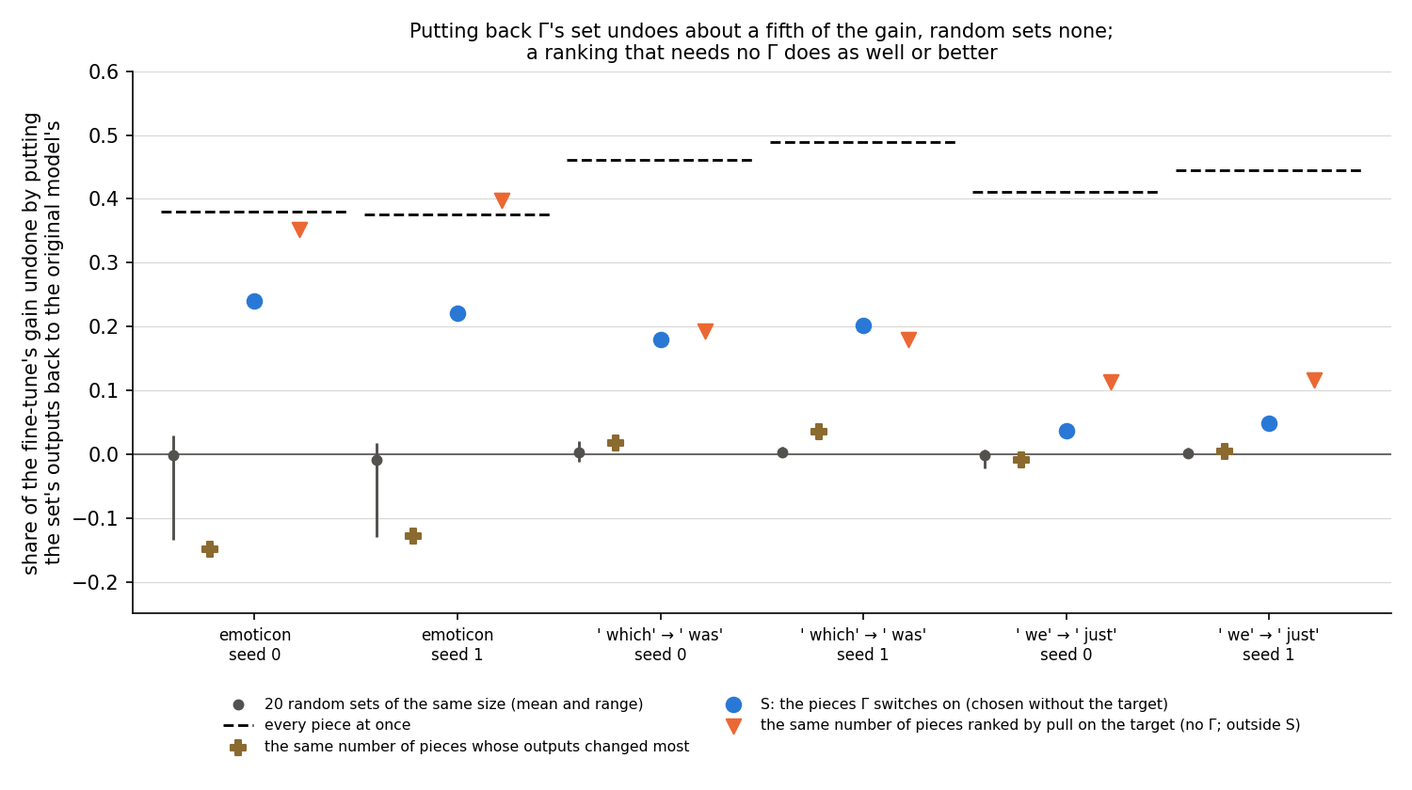
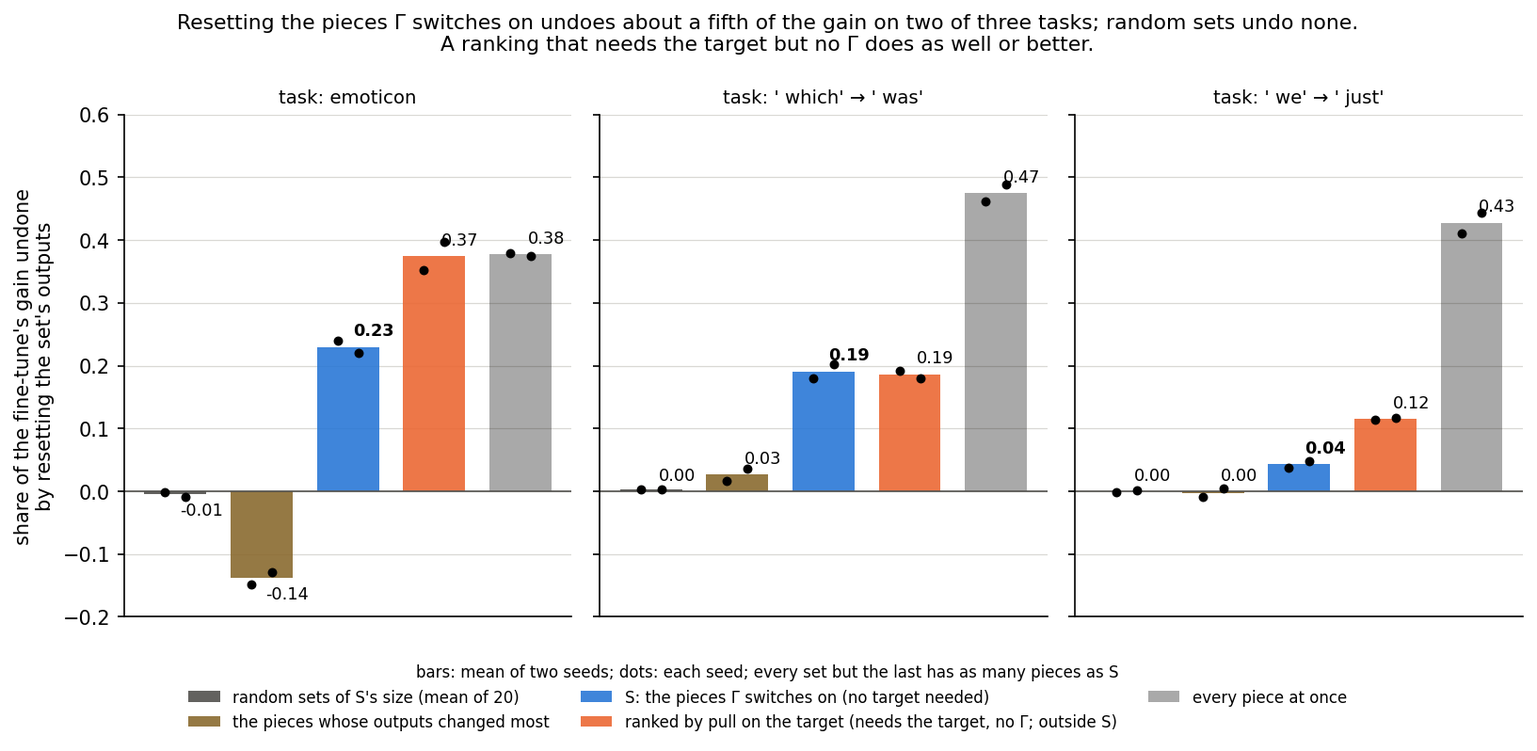
Research log v109: redesign three card figures, standardise the card format
E38's restore figure becomes bars per task, E16's overlaid-step bars a pass/fail
scorecard, E34's six faithfulness panels one panel, all from saved results (new
plot_log.py in teacher_training; grid() in split_comparison/plot.py). Titles checked
against a cold reader: no overclaims. README "What to update" item 1 now specifies the
card layout used on E16, E21, E34, E38 and E39. E38 links the E50 card.

diff --git a/docs/research_log/parts/experiments/e16.html b/docs/research_log/parts/experiments/e16.html
@@ -2,11 +2,11 @@
 <div class="top"><span class="id">E16</span><span class="chip partial">unscored</span><h3>The five operations side by side</h3><span class="when">2026-10-21 · RunPod H100 · <code>experiments/split_comparison</code></span></div>
 <p class="one"><strong>The question.</strong> To read a fine-tune in the decomposition, its weight change has to be carried onto the pieces. A good way of doing that keeps three things at once. It keeps the fine-tune's behaviour. It keeps VPD's faithfulness: the adversarial ratio, the damage an adversary searching over masks of the pieces can do, over what it does to the unchanged decomposition, stays near 1. And it leaves little of the update in the residual Δ, since an update parked in Δ is not explained by the pieces.</p>
 <p class="one"><strong>What we did.</strong> We put the five candidate operations side by side on one task (emoticon), for a full fine-tune and a rank-8 LoRA, both Adam, at steps 10, 100 and 1,000. <em>Do-nothing</em> leaves the whole change in Δ. The <em>least-squares</em>, <em>adjoint</em> and <em>rescaling</em> splits divide the finished change among the pieces in three different ways. <em>Component training</em> skips the fine-tune and trains the pieces on the task directly.</p>
-<p class="one"><strong>What we found.</strong> Only component training was good on all three counts, at every step (first figure). Each split failed one. Least squares left 36 to 54% of the update in Δ and failed the check on the fine-tune. The adjoint split lost the behaviour as training went on, from 0.93 to 0.10. Rescaling never had it.</p>
+<p class="one"><strong>What we found.</strong> Only component training was good on all three counts, at every step (first figure). Each split failed at least one. Least squares left 36 to 54% of the update in Δ and failed the check on the fine-tune. The adjoint split lost the behaviour as training went on, from 0.93 to 0.10. Rescaling never had it.</p>
 <p class="one"><strong>What it means.</strong> No operation yet mapped a finished update: component training replaces the update rather than mapping it. Teacher training (E34) later filled that gap by training the pieces to copy the finished fine-tune. The splits' failures here belong to this large Adam update. On small fine-tunes the splits pass the check (E21, E22), and the adjoint split of a small SGD fine-tune keeps about 0.6 of the behaviour (E31).</p>
 <figure>
-<img src="fig/e16_bars.png" alt="Three panels sharing the five operations on the horizontal axis (do-nothing, least-squares split, adjoint split, rescaling split, component training), each with bars for the fine-tune (blue) and the LoRA (orange) at steps 10, 100 and 1000; component training's bars are its analogues, free beside the fine-tune and rank-8 beside the LoRA. (a) The adversarial ratio to the original model, with the original model's noise band: the fine-tune's least-squares states and its do-nothing at steps 10 and 1000 leave the band, the LoRA's least-squares states at steps 10 and 100 only just; every other bar stays inside. (b) Held-out probability of the target: do-nothing, the least-squares split and component training keep it, the adjoint state loses it along training, the rescaling state never has it. (c) The share of the update left in Δ: all of it for do-nothing, 36 to 54% for the least-squares split, about zero for the rest.">
-<figcaption><strong>1. Which operation keeps all three?</strong> Only component training (right). Blue is the fine-tune, orange the LoRA; beside them, component training is unconstrained (blue) or held to rank 8 (orange). The three steps are drawn over one another in one bar, lighter for earlier, so each step's value is the top of its shade. (a) Faithfulness: inside the grey band is as faithful as the unchanged decomposition. The least-squares split's step-10 bar runs off the top at 6.96. (b) Behaviour kept: the target's probability on held-out text, 1 for the fine-tuned model. (c) How much of the update is left in Δ.</figcaption>
+<img src="fig/e16_grid.png" alt="Two scorecards, full fine-tune and rank-8 LoRA. Rows: do-nothing, least-squares split, adjoint split, rescaling split, component training. Columns: faithfulness, behaviour kept and share left in Δ, each at steps 10, 100 and 1000. Component training is green throughout except an amber 0.90 at step 10 for rank 8. Do-nothing leaves 100% in Δ; least squares leaves 36 to 54% and fails faithfulness on the fine-tune (6.96, 1.48, 2.11); the adjoint split loses behaviour (0.93, 0.60, 0.10 and 0.50, 0.18, 0.06); rescaling keeps 0.01 to 0.02.">
+<figcaption><strong>1. Which operation keeps all three?</strong> Only component training. One table per update; each row an operation, each cell one count at one step, green good, amber in between, red bad (thresholds in the legend). Read across a row: do-nothing keeps the behaviour but leaves the whole update in Δ; least squares leaves a third to a half in Δ and fails faithfulness on the fine-tune; the adjoint split stays faithful but loses the behaviour as training goes on; rescaling never has it. Faithful means inside the unchanged decomposition's run-to-run spread of the adversarial ratio (up to 1.22).</figcaption>
 </figure>
 <figure>
 <img src="fig/e16_routes.png" alt="Two panels of horizontal stacked bars at step 1000, fine-tune and LoRA, one bar per operation (do-nothing, least-squares split, adjoint split, component training). The dark direct share is at most 0.02; the light re-switching share runs from 0.28 to 0.55; the rest is grey.">
@@ -16,7 +16,7 @@
 <dt>Run</dt><dd>Emoticon, one seed. A fine-tune and a rank-8 LoRA were each carried onto the pieces by every operation at steps 10, 100 and 1,000, with component training trained in their place. Every state was scored on the adversarial check, held-out behaviour, and Δ's share of the update.</dd>
 <dt>Found</dt><dd><ul>
 <li>Component training keeps the behaviour, passes the check and leaves almost nothing in Δ at every step, beside both updates.</li>
-<li>On this large fine-tune each split fails one count: least squares fails the check (7.0 at step 10) and leaves 36 to 54% in Δ, the adjoint split loses the behaviour, and rescaling keeps none of it.</li>
+<li>On this large fine-tune each split fails at least one count: least squares fails the check (7.0 at step 10) and leaves 36 to 54% in Δ, the adjoint split loses the behaviour, and rescaling keeps none of it.</li>
 <li>Under every operation the moved pieces carry a few percent of the gain at most; most of what is explained comes from Γ switching pieces on differently. The run did not reproduce an earlier number (E14's step-10 check, 7.0 against 5.2), so the predictions written beforehand are unscored and these are readings.</li></ul></dd>
 <dt>Bears on</dt><dd>Q1, Q2, Q3, Q5</dd>
 <dt>Moved on</dt><dd>The verdict "no split keeps the behaviour, the check and Δ" was then narrowed to large updates: small fine-tunes pass the check under every split (E21, E22), though least squares still leaves 0.25 to 0.39 in Δ and the adjoint split still loses Adam's behaviour. Teacher training (<a href="#e34">E34</a>) later became the map, because it copies a finished fine-tune instead of replacing it. Report: <code>reports/analyses/2026-10-21_analysis_split-comparison.md</code>; notebook <code>notebooks/E16_split_comparison.ipynb</code>. Not run: a second seed, the split states' damage elsewhere.</dd>

diff --git a/docs/research_log/parts/experiments/e38.html b/docs/research_log/parts/experiments/e38.html
@@ -10,8 +10,8 @@
 <figcaption><strong>1. What are the pieces Γ switches on?</strong> Mostly the original model's machinery for the target. Each bar is the share of a set's pieces that, in ordinary Pile text read by the original model, are followed by the target at least three times as often as chance. Blue: S. Grey: random sets of S's size. Gold, for comparison: the pieces most active just before the target, picked knowing the target. Γ gets close to that without knowing it.</figcaption>
 </figure>
 <figure>
-<img src="fig/e38_log_restore.png" alt="For six fine-tuned states, the share of the gain undone by resetting a set's trigger outputs: S 0.24 and 0.22 on emoticon, 0.18 and 0.20 on ' which', 0.04 and 0.05 on ' we'; random sets near 0; the largest-change set -0.15 to 0.04; the target-ranked set 0.35 and 0.40, 0.19 and 0.18, 0.11 and 0.12; every piece at once 0.38 to 0.49.">
-<figcaption><strong>2. Does the fine-tuned model use them?</strong> Partly. Up: how much of the fine-tune's gain on the target is undone when a set's outputs at the trigger are reset to the original model's, on held-out text (0 none, 1 all). The gain is the rise in the target's log-odds, 10 to 14 nats. Blue: S. Grey: random sets of S's size. Brown: the same number of pieces whose outputs changed most. Orange: the same number ranked by pull on the target, outside S, which uses no Γ. Dashed: every piece at once. Even every piece together undoes under half, so most of the gain sits elsewhere.</figcaption>
+<img src="fig/e38_log_restore.png" alt="Three panels, one per task. Bars, mean of two seeds, for the share of the gain undone by resetting a set's trigger outputs: random sets -0.01, 0.00, 0.00; the pieces whose outputs changed most -0.14, 0.03, 0.00; S 0.23, 0.19, 0.04; the target-ranked set 0.37, 0.19, 0.12; every piece at once 0.38, 0.47, 0.43.">
+<figcaption><strong>2. Does the fine-tuned model use them?</strong> Partly. Each bar is how much of the fine-tune's gain on the target is undone when one set's outputs at the trigger are reset to the original model's, on held-out text (0 none, 1 all; the gain is the rise in the target's log-odds, 10 to 14 nats). Bars are the mean of two seeds, dots each seed. Blue, S, undoes about a fifth on two tasks. Random sets and the pieces whose outputs changed most undo none. Orange, the same number of pieces ranked by pull on the target, needs the target but no Γ and does as well or better. Light grey, every piece at once, undoes under half, so most of the gain sits outside the pieces' outputs at the trigger.</figcaption>
 </figure>
 <dl class="fields">
 <dt>Run</dt><dd>The tasks are emoticon, ` which` then ` was`, and ` we` then ` just` (E18's), with a fine-tune to ` http` at the same triggers as the null. S is the alive subcomponents whose importance at the trigger rises by more than 0.3 (21 to 213 of them). A piece's pull on the target is the first-order effect of its change on the target's log-odds. One RunPod job (about $0.23) and four cluster jobs ($0); every restore step was checked by an independent agent.</dd>
@@ -20,6 +20,6 @@
 <li>Resetting S undoes about a fifth of the gain on emoticon and ` which` and under 0.05 on ` we`; random sets and the largest-change pieces undo none, so the size of a change does not explain S's share.</li>
 <li>A ranking by pull on the target matches or beats S at the same count, and adding S to it adds about S's own share. Removing S from the weights was uninformative, since that hurts the original model too.</li></ul></dd>
 <dt>Bears on</dt><dd>Q5</dd>
-<dt>Moved on</dt><dd>The user closed the 67M restore line on 2026-10-28. On 2026-10-29 they read it as a partial success: re-gating shows what an update draws on, and the Γ-free ranking is the caveat that sets the next tests. The reset's stage 0 ran as <a href="#e46">E46</a>, and E50 (chosen 2026-10-29, $0) reads the same restore share on fine-tunes whose kind is known by construction. Reports: <code>reports/analyses/2026-10-28_analysis_e38-amend7.md</code> and <code>reports/analyses/2026-10-28_analysis_e38-amend6.md</code> with their checks <code>reports/reviews/2026-10-28_review_e38-amend7-check.md</code> and <code>reports/reviews/2026-10-28_review_e38-amend6-check.md</code>; earlier <code>reports/analyses/2026-10-28_analysis_e38-amend5.md</code>, <code>reports/analyses/2026-10-28_analysis_e38-amend4.md</code>, <code>reports/analyses/2026-10-27_analysis_e38-amend3.md</code>, <code>reports/analyses/2026-10-27_analysis_e38-amend2.md</code>, <code>reports/analyses/2026-10-27_analysis_recruitment-test.md</code>; notebook <code>notebooks/E38_recruitment_test.ipynb</code>; the removal figure is in the first analysis.</dd>
+<dt>Moved on</dt><dd>The user closed the 67M restore line on 2026-10-28. On 2026-10-29 they read it as a partial success: re-gating shows what an update draws on, and the Γ-free ranking is the caveat that sets the next tests. The reset's stage 0 ran as <a href="#e46">E46</a>, and <a href="#e50">E50</a> (chosen 2026-10-29, $0) reads the same restore share on fine-tunes whose kind is known by construction. Reports: <code>reports/analyses/2026-10-28_analysis_e38-amend7.md</code> and <code>reports/analyses/2026-10-28_analysis_e38-amend6.md</code> with their checks <code>reports/reviews/2026-10-28_review_e38-amend7-check.md</code> and <code>reports/reviews/2026-10-28_review_e38-amend6-check.md</code>; earlier <code>reports/analyses/2026-10-28_analysis_e38-amend5.md</code>, <code>reports/analyses/2026-10-28_analysis_e38-amend4.md</code>, <code>reports/analyses/2026-10-27_analysis_e38-amend3.md</code>, <code>reports/analyses/2026-10-27_analysis_e38-amend2.md</code>, <code>reports/analyses/2026-10-27_analysis_recruitment-test.md</code>; notebook <code>notebooks/E38_recruitment_test.ipynb</code>; the removal figure is in the first analysis.</dd>
 </dl>
 </article>

diff --git a/docs/research_log/parts/sections/changelog.html b/docs/research_log/parts/sections/changelog.html
@@ -3,6 +3,7 @@
 <div class="tblwrap"><table>
 <thead><tr><th>Version</th><th>When</th><th>Changes</th></tr></thead>
 <tbody>
+<tr><td class="c">109</td><td class="c">2026-10-29</td><td>User request: five experiment cards rewritten for a cold reader after a red-team read (fresh Sonnet readers given one card, a line of project context and the title's terms, Moved on withheld): E16, E21, E34, E38, E39. Each now opens with four short paragraphs (the question, what we did, what we found, what it means and what followed), defines the adversarial ratio and its lines in place, and keeps Run to two sentences, Found to three bullets and Moved on to three sentences plus reports. Figures redrawn from saved results, no new runs: E38 gets a plain census figure and a restore figure as bars per task (<code>fig/e38_log_census.png</code>, <code>fig/e38_log_restore.png</code>, from <code>experiments/recruitment_test/plot_log.py</code>); E16's overlaid-step bars become a pass/fail scorecard (<code>fig/e16_grid.png</code>); E34's six faithfulness panels become one (<code>fig/e34_log_faithful.png</code>); E39's first figure loses a title the new-rows result had overturned; E21's and E16's raw task ids and metric names become words. Figures cut from cards stay in their reports (E34: LoRA, cosine and plain-SGD figures; E21: the step-10 ladder; E39: stable rank; E38: removal). The overview's census figure is the plain version. README: the card format is now this layout (What to update, item 1). No PENDING lines applied.</td></tr>
 <tr><td class="c">108</td><td class="c">2026-10-29</td><td>Flush of one revised queued line, found on pulling just after v107: reports/analyses/2026-10-29_analysis_e46-amendment3.md was revised after an independent check. The v107 E46 wording is replaced: the stand-in ratio is nearly the gate gain over the split subcomponents' own gain (the split's changes add a few hundredths at most), so it adds little and is not "the share Γ keeps"; hand writes read 0.40 and 0.57 against 0.36 to 0.41 for the random-map fine-tunes, within reach of the filed bars. The pending card <code>decision-e46-a3-stand-in-ratio</code> now has two options (carry it labelled as gate gain over subcomponent gain, or drop it from stage 1), the writer recommends dropping it, and it need not wait for E50. E46 card, the card, Q5, the claims row, the Line 1 box, the next section and the timeline follow.</td></tr>
 <tr><td class="c">107</td><td class="c">2026-10-29</td><td>Flush of five queued lines (the "Pass criterion on Δ" line was already applied in v106). (1) reports/analyses/2026-10-29_analysis_e48-pass-reread.md (Amendment 1) · E48 card gets the carriers result: about 1,900 / 1,100 / 990 of 9,881 alive subcomponents carry half of the gain on the two random ciphers and the identity control, "tens" missed, the E42 card and the 2026-10-29 timeline line follow; the E48 "not run" list loses the carriers. (2) reports/plans/2026-10-29_plan_regating-elicitation-DRAFT.md · its pending-decision card was never added, since you decided it (3). (3) decisions.md, plans/2026-10-29_plan_restore-anchors.md · option A chosen: Line 1 "Now" and the next section's re-gating card say E50 runs next. (4) decisions.md (Limit of the elicitation reading) · stated in the Line 1 caveats, the Q5 status, the next section and the re-gating claim row: a new mechanism built from pieces the original model already has reads as elicited. (5) E50 filed and coded, not run: new card E50. (6) E46 Amendment 3 (Slurm 42993): E46 card rewritten with the result (hand writes read like their own table's fine-tunes, 0.40 / 0.57 against 0.36 to 0.41; 0.89 / 1.13 against 0.87 to 0.97; random changes unread), new pending card decision-e46-a3-stand-in-ratio, Q5, the claims row and the timeline follow. Main page length not remeasured beyond about +300 words (v106: 17,040; limit 20,000). No figures added (amend3.png, e48_a1_carriers.png stay in their experiment folders).</td></tr>
 <tr><td class="c">106</td><td class="c">2026-10-29</td><td>Flush of one queued line. (1) 2026-10-29 · decisions.md (Pass criterion on Δ) · "Δ untouched" is a description, not the criterion: the criterion is that Δ may not absorb δW, with small changes to Δ allowed, so teacher training plus remainder (E43) is a live candidate with its faithfulness cost stated, not ruled out. Overview Result 2 headline (no longer "with Δ untouched"), Q1 status (closing sentence), the techniques table's "Δ untouched" column header (hover note) and the comparison card, the E43 card's headline and Moved on, and the next section's E43 line follow. Factual "with Δ untouched" statements in the E41, E42 cards and the claims stay. Main page about 17,040 words (limit 20,000).</td></tr>

diff --git a/docs/research_log/parts/experiments/e34.html b/docs/research_log/parts/experiments/e34.html
@@ -9,8 +9,8 @@
 <figcaption><strong>1. Does the copy keep the behaviour?</strong> Yes, on every task and teacher. Up: the target's probability at the trigger on held-out text (the unchanged model: 0.004 on emoticon). Black: the fine-tune being copied. Grey: its adjoint split, the best earlier map. Blue and orange: copies trained on the task's text and on Pile text. Circles are SGD teachers, diamonds Adam. r1 is ` which` then ` was`, r0 is ` it` then ` is`.</figcaption>
 </figure>
 <figure>
-<img src="fig/e34_faithful.png" alt="Six panels, one per teacher, adversarial ratio to W0 at teacher-training steps 100 and 1000, with the teacher's own ratio as a black line, pass line 1.40 and fail line 1.61. Copies trained on task text and on Pile text sit at 0.90 to 1.37.">
-<figcaption><strong>2. Is the copy faithful?</strong> Yes. One panel per fine-tune. Up: the adversarial ratio (dotted 1 is the unchanged decomposition; green dashed, pass; red dashed, fail; grey between, inconclusive). Every copy sits at 0.90 to 1.37 after 100 and 1,000 steps. That includes copies of three fine-tunes that read inconclusive themselves when left in Δ (black line, "do-nothing").</figcaption>
+<img src="fig/e34_log_faithful.png" alt="Adversarial ratio for six fine-tunes, three tasks by SGD and Adam: the fine-tune left in Δ reads 1.59, 1.52, 1.12, 1.35, 0.98, 1.50; copies on task text at step 1000 read 1.00, 0.97, 1.30, 1.08, 0.94, 0.96; copies on Pile text 1.03, 1.13, 1.13, 1.37, 0.90, 1.05; pass line 1.40, fail line 1.61.">
+<figcaption><strong>2. Is the copy faithful?</strong> Yes. For each of the six fine-tunes: grey, the fine-tune left in Δ; blue and orange, its two copies after 1,000 steps of teacher training (dots: the same copies at step 100). Bars start at 1, the unchanged decomposition; under the green line passes, over the red fails, the grey band between is inconclusive. Every copy passes, including copies of the three fine-tunes that read inconclusive themselves.</figcaption>
 </figure>
 <figure>
 <img src="fig/e34_amend1.png" alt="Left: held-out target probability of copies trained on Pile text, with and without the rows holding the trigger, for the SGD and Adam emoticon teachers; at step 1000 0.960, 0.937 and 0.902, 0.892, at step 100 0.74, 0.20 and 0.34, 0.08. Right: cosine of each copy's weight change with the fine-tune's: 0.08 (SGD) and 0.22 (Adam) for both Pile copies, 0.245 and 0.285 for the copy trained on task text, 0.450 and 0.382 for the adjoint split, 0.000 for a random direction.">

diff --git a/experiments/recruitment_test/plot_log.py b/experiments/recruitment_test/plot_log.py
@@ -16,7 +16,7 @@ import json
 from typing import Any
 
 import matplotlib.pyplot as plt
-from plot import BLUE, INK, MUTED, NAME, ORANGE, RES, TASKS, keys, save, style
+from plot import BLUE, FIG, INK, MUTED, NAME, ORANGE, RES, TASKS, keys, save, style
 
 BROWN = "#8a6a2f"
 
@@ -52,31 +52,37 @@ def fig_census(ce: dict[str, Any]) -> None:
 
 
 def fig_restore(st7: dict[str, Any], a3: dict[str, Any], a4: dict[str, Any], a5: dict[str, Any]) -> None:
-    fig, ax = plt.subplots(figsize=(10, 5.6))
-    sets = ((-0.22, BROWN, "P", "the same number of pieces whose outputs changed most"),
-            (0.0, BLUE, "o", "S: the pieces Γ switches on (chosen without the target)"),
-            (0.22, ORANGE, "v", "the same number of pieces ranked by pull on the target (no Γ; outside S)"))
-    for i, k in enumerate(keys()):
-        first = i == 0
-        rnd = a3["states"][k]["rho"]["random"]
-        ax.vlines(i - 0.4, min(rnd), max(rnd), color=MUTED, lw=1.4, zorder=2)
-        ax.scatter([i - 0.4], [sum(rnd) / len(rnd)], s=22, color=MUTED, zorder=3,
-                   label="20 random sets of the same size (mean and range)" if first else None)
-        y_all = a5["states"][k]["rho_all_alive_amend4"]
-        ax.plot([i - 0.46, i + 0.46], [y_all] * 2, color=INK, lw=1.4, ls="--", zorder=2,
-                label="every piece at once" if first else None)
-        ys = (a4["states"][k]["rho"]["C_n"], st7[k]["rho"]["S"], st7[k]["rho"]["D"])
-        for (dx, col, mk, lab), y in zip(sets, ys, strict=True):
-            ax.scatter([i + dx], [y], s=55, marker=mk, color=col, zorder=4, label=lab if first else None)
-    ax.set_xticks(range(len(keys())), task_seed_labels(), fontsize=8)
-    ax.set_xlim(-0.6, len(keys()) - 0.4)
-    ax.set_ylim(-0.25, 0.6)
-    ax.set_ylabel("share of the fine-tune's gain undone by putting\nthe set's outputs back to the original model's")
-    ax.set_title("Putting back Γ's set undoes about a fifth of the gain, random sets none;\n"
-                 "a ranking that needs no Γ does as well or better", fontsize=10)
-    style(ax)
-    ax.legend(frameon=False, fontsize=7.5, loc="upper center", ncol=2, bbox_to_anchor=(0.5, -0.13))
-    save(fig, "log_restore.png")
+    """Bars per task: the mean over the two seeds of each set's restored share, each seed as a dot."""
+    sets = (("random sets of S's size (mean of 20)", MUTED, lambda k: sum(r := a3["states"][k]["rho"]["random"]) / len(r)),
+            ("the pieces whose outputs changed most", BROWN, lambda k: a4["states"][k]["rho"]["C_n"]),
+            ("S: the pieces Γ switches on (no target needed)", BLUE, lambda k: st7[k]["rho"]["S"]),
+            ("ranked by pull on the target (needs the target, no Γ; outside S)", ORANGE, lambda k: st7[k]["rho"]["D"]),
+            ("every piece at once", INK, lambda k: a5["states"][k]["rho_all_alive_amend4"]))
+    fig, axes = plt.subplots(1, len(TASKS), figsize=(11, 4.6), sharey=True)
+    for ax, n in zip(axes, TASKS, strict=True):
+        ks = [k for k in keys() if k.split("/")[0] == n]
+        for j, (lab, col, f) in enumerate(sets):
+            ys = [f(k) for k in ks]
+            m = sum(ys) / len(ys)
+            ax.bar(j, m, 0.72, color=col, alpha=0.35 if col == INK else 0.9, label=lab if n == TASKS[0] else None)
+            ax.scatter([j - 0.12, j + 0.12], ys, s=14, color="k", zorder=3)
+            m = 0.0 if abs(m) < 0.005 else m
+            ax.text(j + 0.3, m + (0.012 if m >= 0 else -0.012), f"{m:.2f}", ha="center", fontsize=8.5,
+                    va="bottom" if m >= 0 else "top",
+                    fontweight="bold" if col == BLUE else "normal")
+        ax.set_xticks([])
+        ax.set_title(f"task: {NAME[n]}", fontsize=9.5)
+        ax.set_ylim(-0.2, 0.6)
+        style(ax)
+    axes[0].set_ylabel("share of the fine-tune's gain undone\nby resetting the set's outputs")
+    fig.suptitle("Resetting the pieces Γ switches on undoes about a fifth of the gain on two of three tasks; random sets undo none.\n"
+                 "A ranking that needs the target but no Γ does as well or better.", fontsize=10.5)
+    fig.tight_layout()
+    fig.legend(*axes[0].get_legend_handles_labels(), loc="upper center", bbox_to_anchor=(0.5, 0.0), ncol=3, fontsize=8, frameon=False,
+               title="bars: mean of two seeds; dots: each seed; every set but the last has as many pieces as S",
+               title_fontsize=8)
+    FIG.mkdir(exist_ok=True)
+    fig.savefig(FIG / "log_restore.png", dpi=150, bbox_inches="tight")
 
 
 def main() -> None:

diff --git a/experiments/split_comparison/plot.py b/experiments/split_comparison/plot.py
@@ -85,6 +85,50 @@ def grouped(ax: Axes, rows: list[Row], key: str, clip: float | None = None) -> N
     ax.grid(axis="y", color="#e6e6e6", zorder=0)
 
 
+GOOD, MID, BAD = "#cfe8d4", "#f6e3b4", "#f4c4c0"
+
+
+def grid(rows: list[Row]) -> None:
+    """The research log's scorecard: one table per update, operations down, the three counts by step across, each
+    cell coloured good / in between / bad by the thresholds in the legend."""
+    crit = (("pgd", "faithful\n(adversarial ratio)", lambda v, r: GOOD if v <= r["pgd_line"] else BAD, "{:.2f}"),
+            ("p_target", "behaviour kept\n(target probability)", lambda v, r: GOOD if v >= 0.9 else BAD if v < 0.5 else MID, "{:.2f}"),
+            ("delta_share", "update left in Δ\n(share)", lambda v, r: GOOD if v <= 0.1 else BAD if v >= 0.3 else MID, "{:.0%}"))
+    fig, axes = plt.subplots(1, 2, figsize=(13, 3.9))
+    for ax, pair in zip(axes, PAIRS, strict=True):
+        for i, op in enumerate(OPS):
+            for c, (key, _, colour, fmt) in enumerate(crit):
+                for s, step in enumerate(STEPS):
+                    r = next(x for x in rows if x["pair"] == pair and x["op"] == op and x["step"] == step)
+                    v = r[key]
+                    x = c * 3.4 + s
+                    ax.add_patch(plt.Rectangle((x, -i - 0.5), 0.95, 0.95, color=colour(v, r), lw=0))
+                    ax.text(x + 0.475, -i - 0.03, fmt.format(v), ha="center", va="center", fontsize=8)
+        for c, (_, head, _, _) in enumerate(crit):
+            ax.text(c * 3.4 + 1.45, 1.05, head + "\nat step",  ha="center", va="bottom", fontsize=8.5)
+            for s, step in enumerate(STEPS):
+                ax.text(c * 3.4 + s + 0.475, 0.62, f"{step}", ha="center", va="bottom", fontsize=7.5, color=GREY)
+        names = [OPS[op] if op != "component_training" else
+                 ("component training\n(in place of the update)" if pair == "ft" else "component training, rank 8\n(in place of the update)")
+                 for op in OPS]
+        ax.set_yticks([-i for i in range(len(OPS))], names, fontsize=8.5)
+        ax.set_xticks([])
+        ax.set_xlim(-0.1, 3 * 3.4 - 0.4)
+        ax.set_ylim(-len(OPS) + 0.4, 2.3)
+        ax.set_title(PAIRS[pair], fontsize=10, loc="left")
+        for sp in ax.spines.values():
+            sp.set_visible(False)
+        ax.tick_params(length=0)
+    handles = [Patch(color=GOOD, label="good: inside the unchanged decomposition's spread; target ≥ 0.9; ≤ 10% in Δ"),
+               Patch(color=MID, label="in between: target 0.5 to 0.9; 10 to 30% in Δ"),
+               Patch(color=BAD, label="bad: outside the spread; target < 0.5; ≥ 30% in Δ")]
+    fig.legend(handles=handles, loc="lower center", ncol=3, fontsize=8, frameon=False)
+    fig.suptitle("Only component training does well on all three counts; each split of the finished update fails at least one", fontsize=11)
+    fig.tight_layout(rect=(0, 0.08, 1, 0.95))
+    fig.savefig(FIG / "grid.png", dpi=150)
+    plt.close(fig)
+
+
 def bars(rows: list[Row], f: float) -> None:
     fig, axes = plt.subplots(3, 1, figsize=(10, 10), sharex=True)
     a, b, c = axes
@@ -196,6 +240,7 @@ def main() -> None:
     rows, f = load()
     FIG.mkdir(exist_ok=True)
     bars(rows, f)
+    grid(rows)
     pgd(rows, f)
     outside(rows)
     routes(rows)

diff --git a/experiments/teacher_training/plot_log.py b/experiments/teacher_training/plot_log.py
@@ -1,0 +1,58 @@
+"""The research log's faithfulness figure for E34, redrawn from saved results in one panel (no model).
+
+  log_faithful.png  per fine-tune (three tasks, SGD and Adam teachers): the adversarial ratio of the fine-tune left in
+                    Δ (do-nothing) and of its two copies (task text, Pile text) at teacher-training step 1000 as bars from 1,
+                    step 100 as dots, with the pass and fail lines.
+
+Reads results/teacher_training_<task>.json.
+Usage (repo root):  python experiments/teacher_training/plot_log.py
+"""
+
+from __future__ import annotations
+
+import matplotlib.pyplot as plt
+from plot import COLOR, HERE, INK, LINE, R0, R1, EMO, TASKS, TEACHERS, floor, load, state, style
+
+TASK = {R1: "' which' → ' was'", R0: "' it' → ' is'", EMO: "emoticon"}
+TEACHER = {"sgd": "SGD", "adam": "Adam"}
+
+
+def main() -> None:
+    runs, _, _ = load(HERE / "results")
+    f = floor(runs)
+    pass_line, fail_line = LINE / (1 + f), LINE * (1 + f)
+    fig, ax = plt.subplots(figsize=(10, 4.4))
+    bars = (("nothing", "the fine-tune left in Δ (do-nothing)", "#b9b8b3"),
+            ("A", "copy trained on the task's text", COLOR["A"]),
+            ("B", "copy trained on ordinary Pile text", COLOR["B"]))
+    labels = []
+    for i, (task, opt) in enumerate((t, o) for t in TASKS for o in TEACHERS):
+        labels.append(f"{TASK[task]}\n{TEACHER[opt]} fine-tune")
+        for j, (arm, lab, col) in enumerate(bars):
+            x = i + (j - 1) * 0.26
+            if arm == "nothing":
+                v = state(runs, task, opt, "nothing")["pgd"]
+            else:
+                v = state(runs, task, opt, arm, "1000")["pgd"]
+                ax.scatter([x], [state(runs, task, opt, arm, "100")["pgd"]], s=16, color="k", zorder=4,
+                           label="the same copy at step 100" if i == 0 and arm == "A" else None)
+            ax.bar(x, v - 1, 0.24, bottom=1, color=col, label=lab if i == 0 else None, zorder=2)
+            ax.text(x, v + (0.015 if v >= 1 else -0.015), f"{v:.2f}", ha="center", va="bottom" if v >= 1 else "top",
+                    fontsize=7)
+    ax.axhline(1, color=INK, lw=0.8, ls=":", zorder=1)
+    ax.axhspan(pass_line, fail_line, color="#f0efec", zorder=0)
+    ax.axhline(pass_line, color="g", ls="--", lw=0.9, label=f"pass line ({pass_line:.2f}); grey band: inconclusive")
+    ax.axhline(fail_line, color="r", ls="--", lw=0.9, label=f"fail line ({fail_line:.2f})")
+    ax.set_xticks(range(len(labels)), labels, fontsize=8)
+    ax.set_ylim(0.8, 1.75)
+    ax.set_ylabel("adversarial ratio\n(1 = unchanged decomposition)")
+    ax.set_title("Every copy passes the check after 1,000 steps, including copies of the three fine-tunes that are "
+                 "inconclusive themselves", fontsize=10)
+    style(ax)
+    ax.legend(frameon=False, fontsize=7.5, loc="upper center", bbox_to_anchor=(0.5, -0.2), ncol=3)
+    fig.tight_layout()
+    fig.savefig(HERE / "figures" / "log_faithful.png", dpi=150, bbox_inches="tight")
+
+
+if __name__ == "__main__":
+    main()

diff --git a/docs/research_log/README.md b/docs/research_log/README.md
@@ -93,14 +93,32 @@ least once a day:
 
 ## What to update
 
-1. **Every experiment**: a new file `parts/experiments/eN.html` holding one `<article class="exp" id="eN">` card
-   (code, name, date, machine, directory; an outcome chip of one or two words: held, missed, mixed, surprise, no answer, ongoing, unscored; one-sentence verdict; Run / Found / Bears on / Moved on), or the Moved-on
-   field of an existing one. **Found** is three bullets at most, each one plain sentence a colleague can read
-   cold: what came out and whether it was expected, at most two numbers, no filed-prediction bookkeeping (that lives
-   in the report). An amendment rewrites the bullets to the experiment's current answer instead of adding one per
-   amendment; **Moved on** is three sentences at most plus the report link (user, 2026-10-26: the Found lists had
-   become unreadable). A flush that touches a card brings it to this length. Figures: copy the experiment's own PNG into the `files` map below under
-   `fig/eN_<name>.png`.
+1. **Every experiment**: a new file `parts/experiments/eN.html` holding one `<article class="exp" id="eN">` card, or
+   the fields of an existing one. Card format (user, 2026-10-29, after a red-team read by cold Sonnet readers; model
+   cards: E16, E21, E34, E38, E39):
+   - **Header**: code, name (the question), date, machine, directory; an outcome chip of one or two words (held,
+     missed, mixed, surprise, no answer, ongoing, unscored).
+   - **Opening**: four short `<p class="one">` paragraphs headed **The question.** (in project terms: which line and
+     Q, why it matters, what earlier result prompted it), **What we did.** (in plain words, defining every term a
+     reader new to the project needs: the adversarial ratio and its pass and fail lines, do-nothing, the map used),
+     **What we found.** (the result, at most two numbers a sentence, pointing at the figures) and **What it means.**
+     (what it says for the line, the caveat that sets the next test, and what the project did next). A reader who
+     stops here knows the result and why the next decision followed.
+   - **Figures**: three to five, each answering one question. Design the plot for its message, not as a dump of
+     every arm: one panel where one will do, bars from a natural baseline, task names in words (` which` then ` was`,
+     never `r1_t534_v369`), no "Amendment N", "filed", W₀ or raw metric names in titles, legends or axes. A title
+     states the finding; if a later run overturns it, redraw it. The caption opens with the question in bold and a
+     one-word answer, then says how to read the plot. Log figures are drawn from saved results by the experiment's
+     `plot_log.py`; figures cut from a card stay in its report, and Moved on says so.
+   - **Run**: two sentences: what ran, on what, at what cost.
+   - **Found**: three bullets at most, each one plain sentence a colleague can read cold: what came out and whether it
+     was expected, at most two numbers, no filed-prediction bookkeeping (that lives in the report). An amendment
+     rewrites the bullets to the experiment's current answer instead of adding one per amendment.
+   - **Bears on**; **Moved on**: three sentences at most (the decisions taken and by whom, what runs next) plus the
+     report links.
+   A flush that touches a card brings it to this format (user, 2026-10-26: the Found lists had become unreadable;
+   2026-10-29: the openings were too thin and the plots too hard to read). Figures: copy the PNG into the `files`
+   map below under `fig/eN_<name>.png`.
 2. **Every claim, with its status** (`claims.html`): add, re-chip or re-word rows. Statuses: holds,
    partial/qualified, refuted, uninformative, open.
 3. **Sub-questions** (`questions.html`): the status line and chip of every Q the experiment bears on; the E-code
@@ -261,6 +279,8 @@ Figures already published (their sources, for a re-upload):
 - "fig/e38_amend7_line.png": "experiments/recruitment_test/figures/amend7_line.png"
 - "fig/e38_log_census.png": "experiments/recruitment_test/figures/log_census.png"
 - "fig/e38_log_restore.png": "experiments/recruitment_test/figures/log_restore.png"
+- "fig/e16_grid.png": "experiments/split_comparison/figures/grid.png"
+- "fig/e34_log_faithful.png": "experiments/teacher_training/figures/log_faithful.png"
 - "fig/e34_amend6_lora.png": "experiments/teacher_training/figures/amend6_lora.png"
 - "fig/e39_moves.png": "experiments/broad_fragility/figures/moves.png"
 - "fig/e39_reverts.png": "experiments/broad_fragility/figures/reverts.png"
